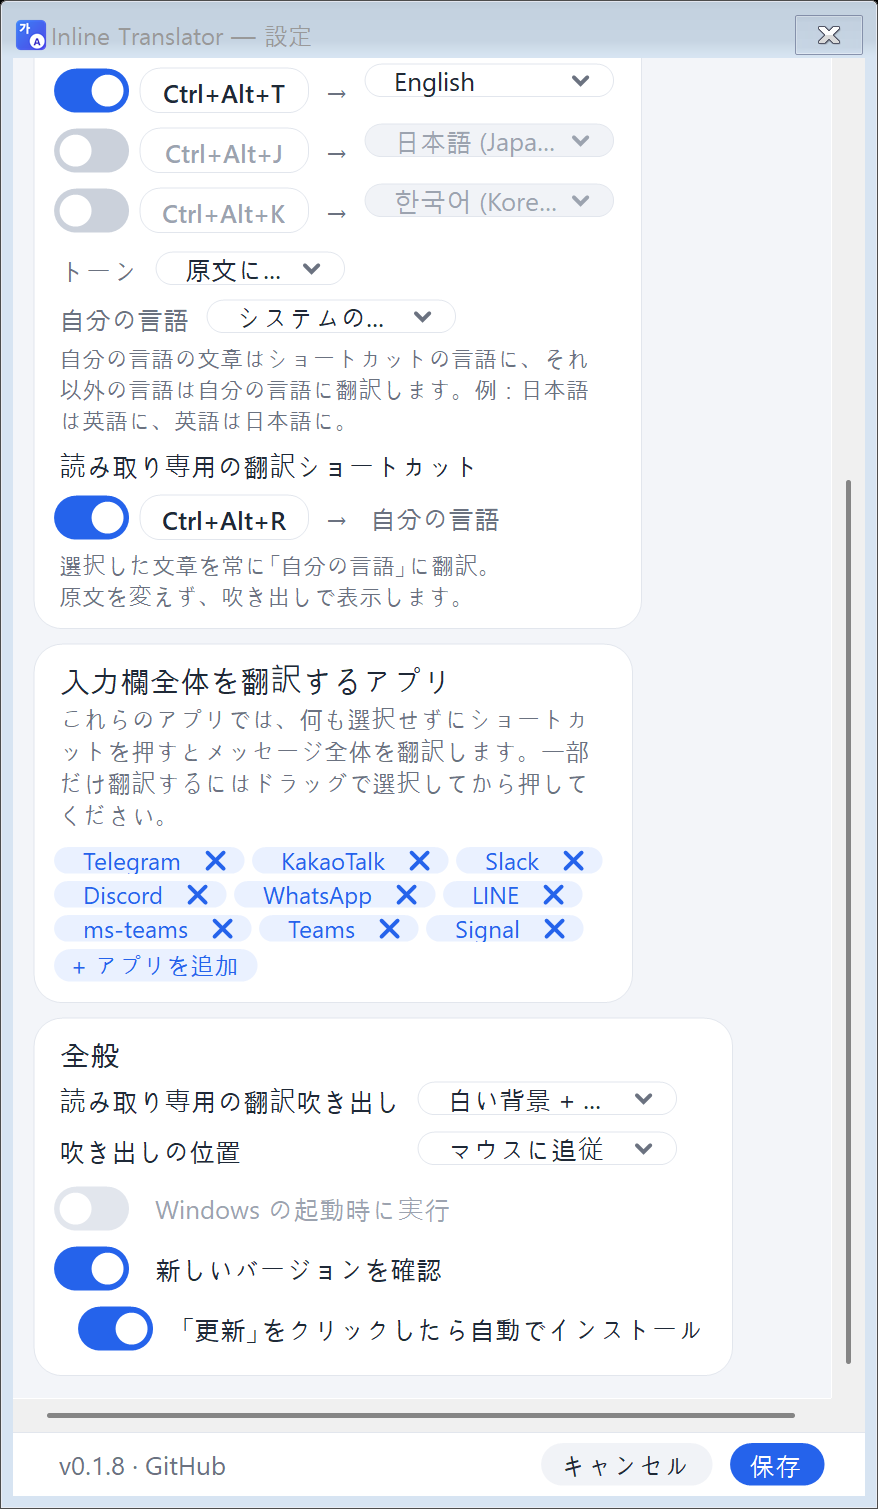
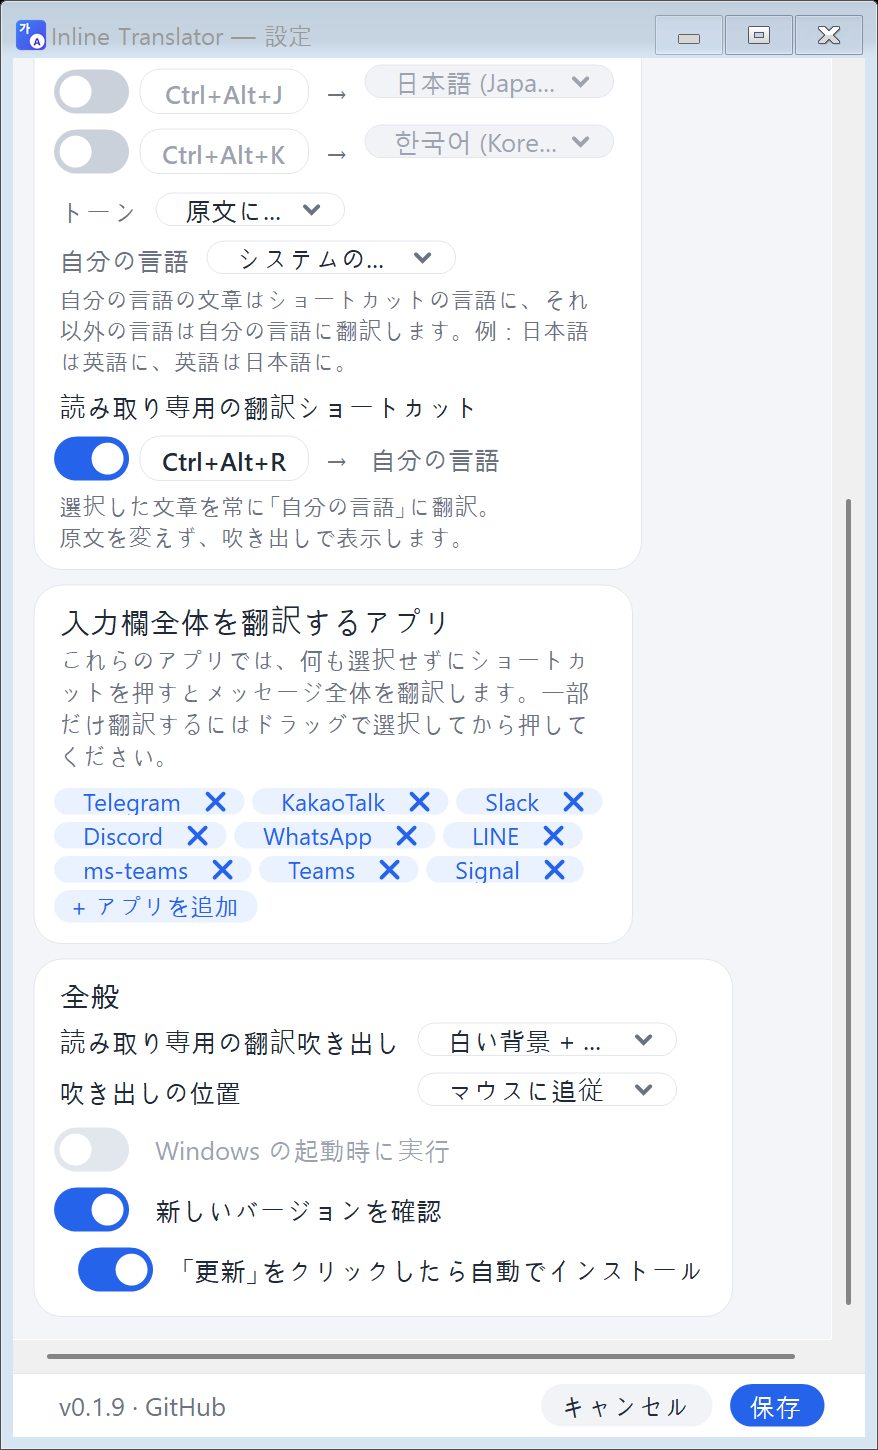
Make settings resizable and keep footer visible on remote desktops in Inline Translator 0.1.9

diff --git a/tools/Preview/WindowQa.cs b/tools/Preview/WindowQa.cs
@@ -1,0 +1,74 @@
+using InlineTranslator;
+
+internal static class WindowQa
+{
+    internal static async Task VerifyAsync(string folder)
+    {
+        Directory.CreateDirectory(folder);
+        foreach (string language in AppSettings.UiLanguages)
+        {
+            var settings = new AppSettings { UiLanguage = language }.Normalize();
+            var text = new UiText(language);
+            using var icon = AppIcon.Load();
+            using var form = new SettingsForm(settings, text, icon, null, _ => [], () => Task.CompletedTask, _ => { });
+            await Program.ShowAsync(form);
+            await form.InitialSignIn.WaitAsync(Program.QaTimeout);
+            var area = Screen.FromControl(form).WorkingArea;
+            Console.WriteLine($"dpi={form.DeviceDpi} style={form.FormBorderStyle} bounds={form.Bounds} work={area}");
+            Check(form.FormBorderStyle == FormBorderStyle.Sizable && form.MaximizeBox, "Settings must allow resizing and maximizing.");
+            Check(area.Contains(form.Bounds), "Shown outer window including title bar must fit the working area.");
+            var scroller = form.Controls.OfType<Panel>().Single(panel => panel.AutoScroll);
+            var save = form.AcceptButton as Control ?? throw new InvalidOperationException("Missing Save button.");
+            var cancel = form.CancelButton as Control ?? throw new InvalidOperationException("Missing Cancel button.");
+            foreach (var viewport in new[] { new Size(1280, 720), new Size(1024, 768), new Size(800, 600), new Size(640, 480) })
+            {
+                var work = new Rectangle(50, 40, viewport.Width, viewport.Height);
+                form.FitToWorkingArea(work);
+                Check(work.Contains(form.Bounds), "Window must fit reduced remote working area: " + viewport);
+                form.Size = new Size(Math.Min(viewport.Width - 48, 720), Math.Min(viewport.Height - 48, 500));
+                form.PerformLayout();
+                Check(work.Contains(form.Bounds), "User-resized window must remain inside remote work area.");
+                foreach (var button in new[] { save, cancel })
+                {
+                    var box = form.RectangleToClient(button.RectangleToScreen(button.ClientRectangle));
+                    Check(form.ClientRectangle.Contains(box), button.Text + " must remain inside the client area.");
+                    Check(!scroller.Bounds.IntersectsWith(box), "Scrollable content must not cover " + button.Text);
+                }
+                form.SetUpdate(new ReleaseInfo(new Version(0, 1, 9), "v0.1.9", "https://github.com/HSoo-Kim/inline-translator"));
+                form.PerformLayout();
+                var footer = save.Parent!;
+                var buttons = footer.Controls.OfType<Button>().Where(button => button.Visible).ToArray();
+                for (int i = 0; i < buttons.Length; i++)
+                {
+                    Check(footer.ClientRectangle.Contains(buttons[i].Bounds), "Footer action must remain visible: " + buttons[i].Text);
+                    for (int j = i + 1; j < buttons.Length; j++)
+                        Check(!buttons[i].Bounds.IntersectsWith(buttons[j].Bounds), "Footer actions must not overlap.");
+                }
+                scroller.AutoScrollPosition = Point.Empty;
+                Capture(form, Path.Combine(folder, $"settings-{language}-{viewport.Width}x{viewport.Height}-top.png"));
+                scroller.AutoScrollPosition = new Point(0, scroller.DisplayRectangle.Height);
+                Check(scroller.VerticalScroll.Value > 0, "Small remote window must scroll to remaining settings.");
+                Capture(form, Path.Combine(folder, $"settings-{language}-{viewport.Width}x{viewport.Height}-end.png"));
+                Console.WriteLine($"PASS {language} {viewport}: bounds={form.Bounds}, save/cancel visible, scroll={scroller.AutoScrollPosition}");
+                form.SetUpdate(null);
+            }
+            var leftMonitor = new Rectangle(-1280, 0, 1280, 720);
+            form.FitToWorkingArea(leftMonitor);
+            Check(leftMonitor.Contains(form.Bounds), "Reduced remote desktop may have a negative monitor origin.");
+        }
+    }
+
+    private static void Capture(Form form, string path)
+    {
+        form.Update();
+        using var bitmap = new Bitmap(form.Width, form.Height);
+        form.DrawToBitmap(bitmap, new Rectangle(Point.Empty, form.Size));
+        bitmap.Save(path);
+        Console.WriteLine(path);
+    }
+
+    private static void Check(bool condition, string message)
+    {
+        if (!condition) throw new InvalidOperationException(message);
+    }
+}

diff --git a/src/InlineTranslator/SettingsForm.cs b/src/InlineTranslator/SettingsForm.cs
@@ -49,8 +49,8 @@ internal sealed class SettingsForm : Form
         Text = "Inline Translator — " + text.T("Settings");
         Icon = icon;
         Font = Ui.Regular();
-        FormBorderStyle = FormBorderStyle.FixedSingle;
-        MaximizeBox = false;
+        FormBorderStyle = FormBorderStyle.Sizable;
+        MaximizeBox = true;
         MinimizeBox = false;
         StartPosition = FormStartPosition.CenterScreen;
         BackColor = Ui.Canvas;
@@ -206,7 +206,13 @@ internal sealed class SettingsForm : Form
         cancelButton.Click += (_, _) => Close();
         updateButton.Click += async (_, _) => await installUpdate();
         footer.Controls.AddRange([version, updateButton, cancelButton, saveButton]);
-        footer.Layout += (_, _) => Ui.LayoutFooter(footer, version, [updateButton, cancelButton, saveButton]);
+        footer.Layout += (_, _) =>
+        {
+            int buttonsWidth = new[] { updateButton, cancelButton, saveButton }.Where(button => button.Visible)
+                .Sum(button => Math.Max(button.GetPreferredSize(Size.Empty).Width, button.MinimumSize.Width) + Ui.Scale(footer, 8));
+            version.Visible = footer.ClientSize.Width >= buttonsWidth + version.PreferredWidth + Ui.Scale(footer, 48);
+            Ui.LayoutFooter(footer, version.Visible ? version : null, [updateButton, cancelButton, saveButton]);
+        };
         Controls.Add(scroller);
         Controls.Add(footer);
         AcceptButton = saveButton;
@@ -230,13 +236,49 @@ internal sealed class SettingsForm : Form
     public void SetUpdate(ReleaseInfo? release)
     {
         updateButton.Visible = release is not null;
-        if (release is not null) updateButton.Text = "↑ " + text.T("Update to {0}", release.Tag);
+        if (release is not null)
+        {
+            updateButton.Text = text.T("Update");
+            tips.SetToolTip(updateButton, text.T("Update to {0}", release.Tag));
+        }
     }
 
     protected override void OnHandleCreated(EventArgs e)
     {
         base.OnHandleCreated(e);
         Ui.RoundWindow(this);
+    }
+
+    protected override void OnShown(EventArgs e)
+    {
+        FitToWorkingArea(Screen.FromControl(this).WorkingArea);
+        base.OnShown(e);
+    }
+
+    protected override void OnDpiChanged(DpiChangedEventArgs e)
+    {
+        base.OnDpiChanged(e);
+        if (Visible) BeginInvoke(() => FitToWorkingArea(Screen.FromControl(this).WorkingArea));
+    }
+
+    protected override void WndProc(ref Message message)
+    {
+        base.WndProc(ref message);
+        if (message.Msg == 0x007E && Visible) // WM_DISPLAYCHANGE: remote desktop resolution changed.
+            BeginInvoke(() => FitToWorkingArea(Screen.FromControl(this).WorkingArea));
+    }
+
+    internal void FitToWorkingArea(Rectangle area)
+    {
+        int margin = Math.Min(Ui.Scale(this, 12), Math.Min(area.Width, area.Height) / 10);
+        var available = Rectangle.Inflate(area, -margin, -margin);
+        MinimumSize = new Size(Math.Min(available.Width, Math.Max(480, Ui.Scale(this, 280))),
+            Math.Min(available.Height, Math.Max(300, Ui.Scale(this, 180))));
+        if (WindowState == FormWindowState.Maximized) return;
+        var size = new Size(Math.Clamp(Width, MinimumSize.Width, available.Width),
+            Math.Clamp(Height, MinimumSize.Height, available.Height));
+        Bounds = new Rectangle(Math.Clamp(Left, available.Left, available.Right - size.Width),
+            Math.Clamp(Top, available.Top, available.Bottom - size.Height), size.Width, size.Height);
     }
 
     private Control Header(Icon icon, Action<string> changeLanguage)

diff --git a/tools/Preview/Program.cs b/tools/Preview/Program.cs
@@ -14,6 +14,8 @@ internal static class Program
             return OperationQa.RequirePrivateDesktop() ? RunUiAsync(() => RenderAsync(folder)) : 2;
         if (args is ["verify"])
             return OperationQa.RequirePrivateDesktop() ? RunUiAsync(OperationQa.VerifyAsync) : 2;
+        if (args is ["window-check", var windowFolder])
+            return OperationQa.RequirePrivateDesktop() ? RunUiAsync(() => WindowQa.VerifyAsync(windowFolder)) : 2;
         if (args is ["lnk", var shortcut])
         {
             try { Console.WriteLine("target: " + AppCatalog.ShortcutTarget(shortcut)); }
@@ -189,6 +191,7 @@ internal static class Program
             await ShowAsync(picker);
             Capture(picker, Path.Combine(artifacts, "app-picker-ko.png"));
         }
+        await WindowQa.VerifyAsync(Path.Combine(artifacts, "window-qa"));
     }
 
     private static int Translate(string provider, string model, string language, string message)

diff --git a/tests/InlineTranslator.Tests/Program.cs b/tests/InlineTranslator.Tests/Program.cs
@@ -600,7 +600,7 @@ internal static class Program
         Check(Parse("""{"tag_name":"v0.2.0","html_url":"https://github.com/a","assets":[{"name":"inline-translator-win-x64.zip","browser_download_url":"https://github.com/x"}]}""")!.PackageUrl is null, "no digest means no automatic install");
         Check(Parse("""{"tag_name":"v0.2.0","html_url":"https://evil.example/"}""") is null, "non-GitHub page rejected");
         Check(Parse("""{"tag_name":"latest","html_url":"https://github.com/a"}""") is null, "non-version tag rejected");
-        Equal(new Version(0, 1, 8), UpdateChecker.Current);
+        Equal(new Version(0, 1, 9), UpdateChecker.Current);
     }
 
     private static void UpdateInstall()

diff --git a/src/InlineTranslator/UiText.cs b/src/InlineTranslator/UiText.cs
@@ -43,6 +43,7 @@ public sealed class UiText
         ["Paused"] = ("일시 중지됨", "已暂停", "一時停止中"),
         ["Exit"] = ("종료", "退出", "終了"),
         ["Update to {0}"] = ("{0}(으)로 업데이트", "更新到 {0}", "{0} に更新"),
+        ["Update"] = ("업데이트", "更新", "更新"),
         ["{0} is already used by another program. Choose another hotkey in Settings."] =
             ("{0}을(를) 다른 프로그램이 이미 쓰고 있습니다. 설정에서 다른 단축키를 고르세요.",
              "{0} 已被其他程序占用。请在设置中选择其他快捷键。",

diff --git a/README.md b/README.md
@@ -59,6 +59,8 @@ Windows 11 x64용이고, 실행 파일에 .NET이 포함돼 있어 따로 설치
 
 ## 설정
 
+설정 창은 가장자리를 드래그해 크기를 바꾸거나 최대화할 수 있습니다. 작은 화면·원격 접속에서는 내용 영역을 스크롤하면 되고, 저장·취소 버튼은 하단에 고정됩니다. 화면 해상도나 배율이 바뀌면 창을 현재 작업 영역 안으로 맞춥니다.
+
 <p align="center"><img src="docs/images/settings-ko.png" width="520" alt="Inline Translator 설정 창"></p>
 
 | 항목 | 내용 |

diff --git a/README.en.md b/README.en.md
@@ -59,6 +59,8 @@ Built for Windows 11 x64. The executable includes .NET, so nothing else to insta
 
 ## Settings
 
+Drag the window borders to resize Settings, or maximize it. On small or remote desktops, scroll the content while Save and Cancel stay fixed at the bottom. Resolution or scaling changes keep the window within the current working area.
+
 <p align="center"><img src="docs/images/settings-en.png" width="520" alt="Inline Translator settings window"></p>
 
 | Section | What it does |

diff --git a/README.zh-CN.md b/README.zh-CN.md
@@ -59,6 +59,8 @@
 
 ## 设置
 
+设置窗口可拖动边框调整大小，也可最大化。在小屏幕或远程桌面中滚动内容即可，保存和取消按钮固定在底部。分辨率或缩放变化时，窗口会调整到当前工作区域内。
+
 <p align="center"><img src="docs/images/settings-zh-CN.png" width="520" alt="Inline Translator 设置窗口"></p>
 
 | 项目 | 说明 |
